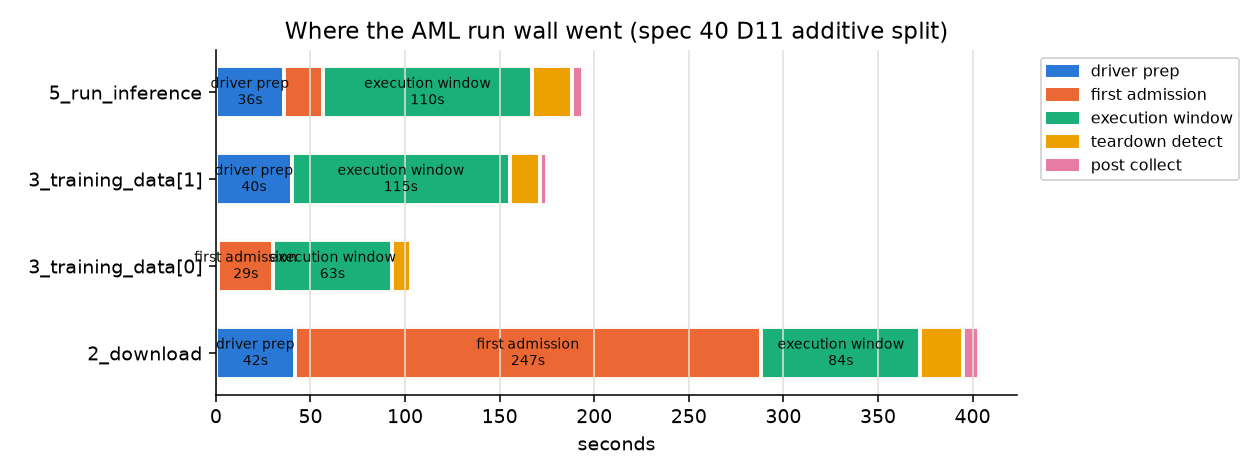
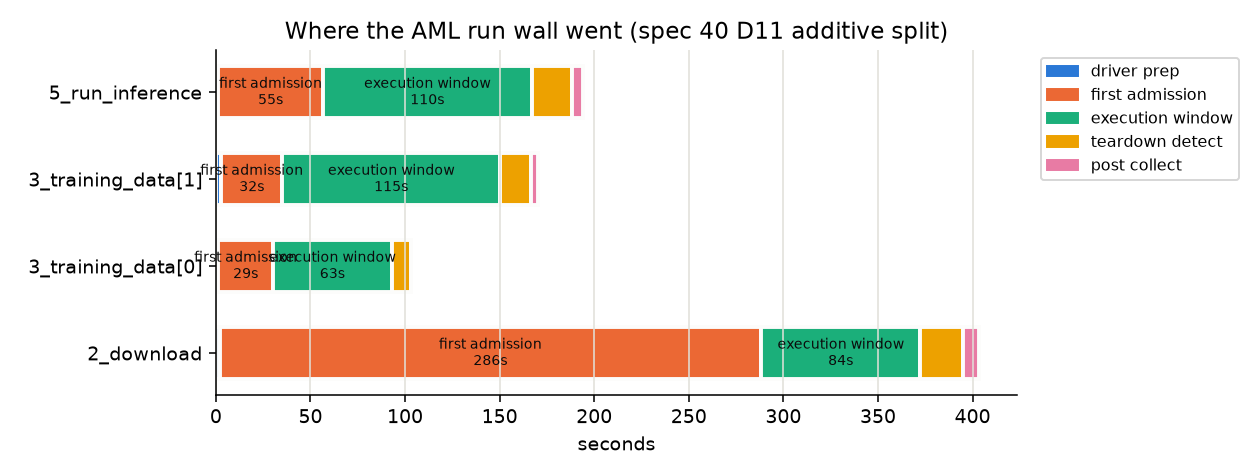
demos: order dispatch telemetry by execution, not by run_id
`3_training_data[0]` was the flatten REDUCE and `[1]` the build FAN-OUT -- backwards from
how anyone reads an index, and backwards from the order they ran in.

`_new_dispatch_timings` sorted by run_id. Run ids look like sortable timestamps and are
not: `create_training_data` mints its own right after preflight and hands it to the
flatten, while the build fan-out mints one later, when it actually dispatches. So the
flatten's id is EARLIER than the build's even though it executes after it. On
20260729T132222Z: flatten `20260729T132929Z` executed 13:32:58; build
`20260729T133005Z` executed 13:30:07, finishing one second before the flatten started.

Now sorted on `wall.t_start`, which is what the index implies and is already in the file.
This is a labelling bug with real reach -- it mislabels every figure the plotter draws
from `_extract_runs`, and it misled my own analysis of this run before the user asked what
the two entries were.

Tests (+2): the exact id-vs-execution inversion above, asserting the 32-job fan-out sorts
first; and tolerating a `wall` with no `t_start`. 520 passed / 2 skipped, ruff clean.

diff --git a/tests/test_e2e_aml_demo_helpers.py b/tests/test_e2e_aml_demo_helpers.py
@@ -84,6 +84,34 @@ def test_new_dispatch_timings_picks_up_both_runs_of_one_training_data_call():
     assert [t["run_id"] for t in new] == ["20260728T100000Z-build", "20260728T100500Z-flatten"]
 
 
+def test_new_dispatch_timings_orders_by_execution_not_by_run_id():
+    """Run ids look like sortable timestamps and are not. `create_training_data` mints its
+    own right after preflight and gives it to the flatten REDUCE, while the build FAN-OUT
+    mints one later when it dispatches -- so the flatten's id sorts first despite running
+    second. Real values from 20260729T132222Z: flatten id 132929Z executed 13:32:58, build
+    id 133005Z executed 13:30:07. Sorted by id, `3_training_data[0]` was the reduce."""
+    root = "memory://disc_order"
+    before = demo._list_run_ids(root)
+    _write_timing(root, "20260729T132929Z",      # flatten: earlier id, LATER execution
+                  {"run_id": "flatten", "jobs": {"0": {}},
+                   "wall": {"t_start": "2026-07-29T13:32:58+00:00"}})
+    _write_timing(root, "20260729T133005Z",      # build: later id, EARLIER execution
+                  {"run_id": "build", "jobs": {str(k): {} for k in range(32)},
+                   "wall": {"t_start": "2026-07-29T13:30:07+00:00"}})
+
+    new = demo._new_dispatch_timings(root, before)
+
+    assert [t["run_id"] for t in new] == ["build", "flatten"]
+    assert len(new[0]["jobs"]) == 32 and len(new[1]["jobs"]) == 1
+
+
+def test_new_dispatch_timings_tolerates_a_missing_t_start():
+    root = "memory://disc_no_tstart"
+    before = demo._list_run_ids(root)
+    _write_timing(root, "r1", {"run_id": "r1", "jobs": {}, "wall": {}})
+    assert [t["run_id"] for t in demo._new_dispatch_timings(root, before)] == ["r1"]
+
+
 def test_new_dispatch_timings_is_empty_when_a_step_dispatched_nothing():
     """A fully-resumed step (every output already on blob) dispatches no job, so it
     embeds no telemetry -- and must not raise."""

diff --git a/demos/e2e_austria_aml.py b/demos/e2e_austria_aml.py
@@ -514,11 +514,22 @@ def _assert_dispatch_telemetry_complete(dispatch_timings: list, *, step: str) ->
 
 
 def _new_dispatch_timings(root: str, before: set) -> list:
-    new_ids = sorted(_list_run_ids(root) - before)
+    """The `_timing.json` of every run that appeared during a step's call, **in execution
+    order**.
+
+    Ordered by `wall.t_start`, NOT by run_id. Run ids look like sortable timestamps and are
+    not: `create_training_data` mints its own right after preflight and hands it to the
+    **flatten reduce**, while the **build fan-out** mints one later, when it actually
+    dispatches -- so the flatten's id sorts FIRST despite running SECOND. Measured on
+    20260729T132222Z: flatten `20260729T132929Z` executed 13:32:58, build
+    `20260729T133005Z` executed 13:30:07. Sorted by id, `3_training_data[0]` was the
+    reduce and `[1]` the fan-out, which is backwards from how anyone reads an index.
+    """
     out = []
-    for run_id in new_ids:
+    for run_id in sorted(_list_run_ids(root) - before):
         with fs.open(f"{root.rstrip('/')}/runs/{run_id}/_timing.json", "r") as f:
             out.append(json.load(f))
+    out.sort(key=lambda d: (d.get("wall") or {}).get("t_start") or "")
     return out
 
 
